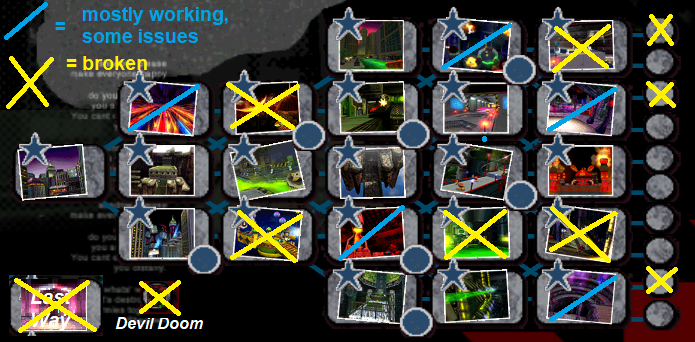
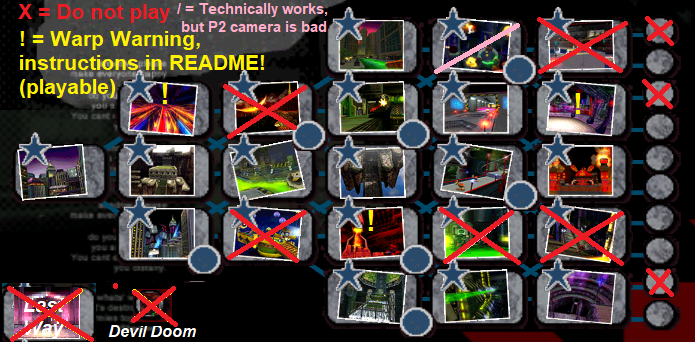
update readme + current stages

diff --git a/README.md b/README.md
@@ -6,16 +6,18 @@
 This project aims to get 2 Players working in Shadow The Hedgehog (GameCube)'s 1P modes.
 Story Mode, Select Mode, Expert Mode, Last Story.
 
-## Level Status
-![Level Map](./res/level_status.png)
+## Level Status (current changes)
+![Current Level Map](./res/level_status.png)
+## Level Status (current release)
+![Level Map](./res/level_status-v1.0.png)
 
-## Release 1 (Scheduled for EOD 10.28.2018)
-* To be formalized with how-to...
-* Due to the many issues still remaining, it is highly recommended to have Infinite lives enabled
+## Release 1
+* To be formalized with how-to... soonish
+* Has Dolphin Clock set to 165% by default - Adjust if game runs very slow on your system (try 100%, then increment slowly).
+* Due to the many issues still remaining, it is highly recommended to have 'Infinite Lives' enabled
 * Chaos Control is disabled by default
 * Chunks are tied to P1 only (stay near each other)
 * Air bug is still present (temp-fix inbound...)
-
 
 ## Credits
 * Includes `True Black Shadow` by TheHatedGravity
@@ -57,3 +59,4 @@ Story Mode, Select Mode, Expert Mode, Last Story.
 ## Problems (Not sure if will fix)
 * P2 spawns according to nukkoro2.inf initially fine, but on restart seems to occasionally be off by +-5.
 * Partner/Mission Helpers (Sonic, Doom's Eye, Espio, etc...) only spawn if P1 sees them first (or is in-range). (Side effect of current layout objects load patch)
+* Culling issue on Final Haunt for P2's screen when near force-fields
